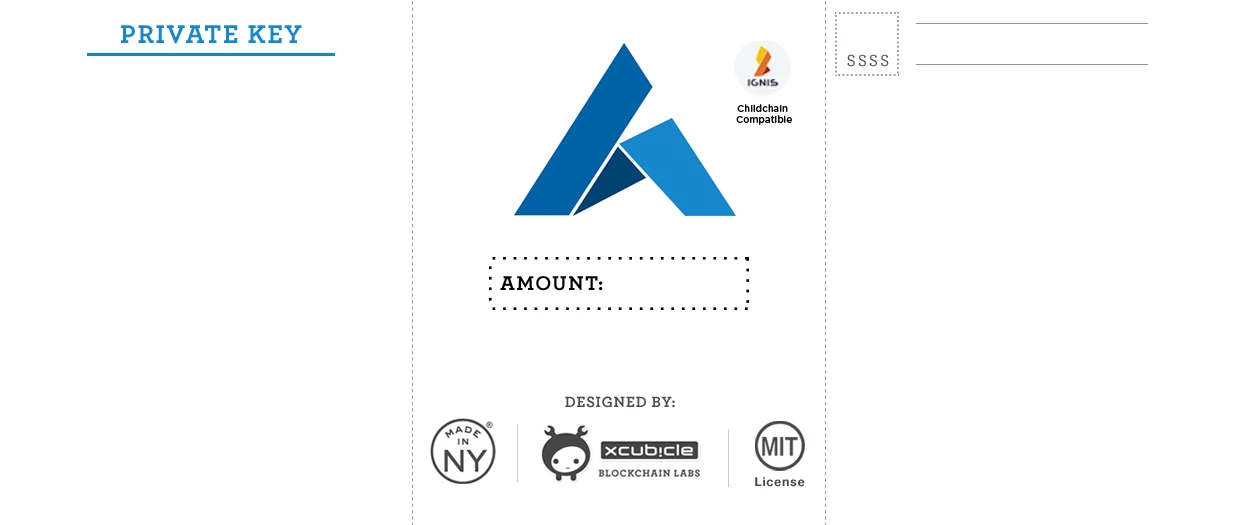
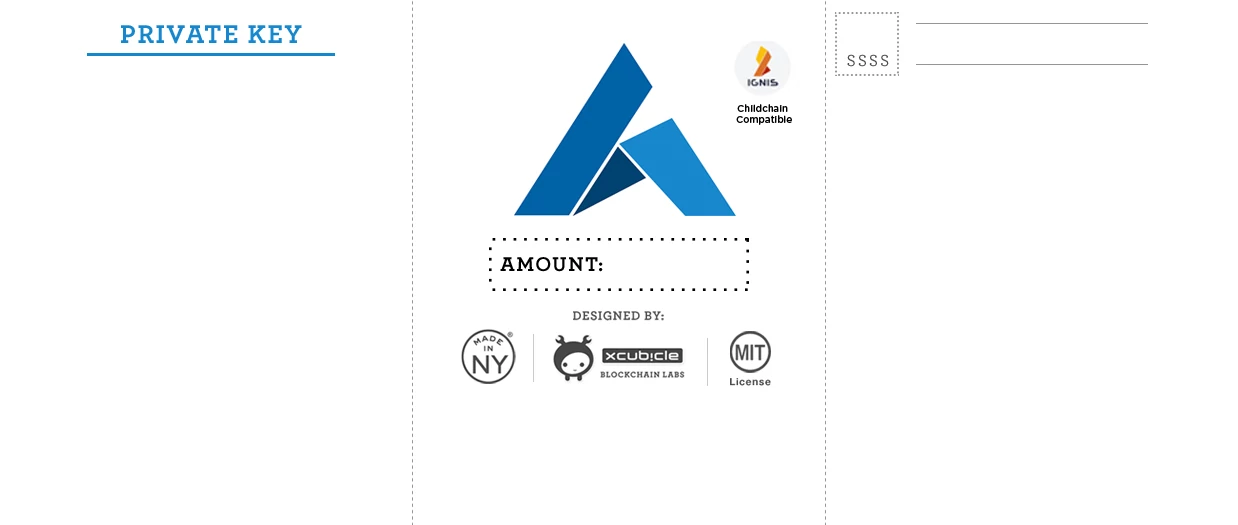
updated more images.

diff --git a/src/css/main.css b/src/css/main.css
@@ -127,22 +127,24 @@ body.tos-show {
 .identicon {
   position: absolute;
   height: 40px;
-  left: 110px;
-  top: 10px;
+  left: 665px;
+  top: 4px;
   background: #ffffff;
 }
 
 .qr-pub {
   position: absolute;
-  top: 70px;
-  left: 9px;
+  top: 44px;
+  left: 515px;
 }
+  .qr-pub img { width: 132px }
 
 .qr-pri {
-  position: absolute;
-  top: 130px;
-  right: 0;
+  position: absolute; 
+  right: 481px; 
+  top: 21px; 
 }
+  .qr-pri img { width: 195px; }
 
 .qr-image {
   display: inline-block;
@@ -155,29 +157,27 @@ body.tos-show {
 
 .qr-text {
   position: absolute;
-  width: 100%;
-  -webkit-transform: rotate(-90deg);
-  -ms-transform: rotate(-90deg);
-  transform: rotate(-90deg);
+  text-align: center;
+  word-break: break-word;
 }
 
 .pub-text {
-  top: -121px;
-  right: 140px;
-  font-size: 10px;
+  top: 195px;
+  right: 8px;
+  width: 218px;
 }
+  .pub-text:before { content: 'Public Address '; display: block; font-weight: bold }
 
-.pri-text { bottom: 100%; left: 375px; font-size: 10px; width: 274px; word-wrap: break-word; background: #fff; top: 132px; height: 17px; text-align: center; line-height: 8px; }
+.pri-text { left: 5px; font-size: 9px; width: 230px; top: 225px; text-align: center; }
+  .xmr.cloned .pri-text,
+  .nxt.cloned .pri-text { width: 463px; text-align: left }
 
 .date {
   position: absolute;
   width: 110px;
-  top: 125px;
-  right: 488px;
+  top: 21px;
+  right: 51px;
   font-size: 10px;
-  -webkit-transform: rotate(-90deg);
-  -ms-transform: rotate(-90deg);
-  transform: rotate(-90deg);
 }
 
 .logo-img {
@@ -189,50 +189,21 @@ body.tos-show {
     width: 300px;
 }
 
-/*Shorter than other addresses*/
-#nxtacct {
-  top: -60px;
-}
-
-/*Accountable for unreasonable long text*/
-#nxtpri {
-  word-wrap: break-word;
-  width: 37%;
-  left: 382px;
-  bottom: 160px;
-}
 
 
 /*XMR qr codes*/
-.xmr .qr-pub { top: 45px; left: 470px; }
-#xmrpub {
-  width: 113px;
-   word-wrap: break-word;
-   left: 583px;
-   top: 53px;
-   transform: rotate(0);
-   font-size: 10px;
-}
-.xmr .pri-text {word-wrap: break-word; display: block; width: 230px; left: 4px; top: 229px; background: #fff; font-size: 9px; line-height: 9px; text-align: center; z-index: 9; transform: rotate(0) }
-  .xmr.cloned .pri-text { width: 230px }
-  .xmr.cloned .pri-text:before { content: 'Shamir Secret-Share: '; }
-#xmrpri-view  {word-wrap: break-word; left: 478px; background: #fff; width: 128px; display: block; top: 197px; font-size: 11px; line-height: 9px; text-align: center; }
-
-.xmr .qr-pri { position: absolute; right: 481px; top: 23px; }
-  .xmr .qr-pri img { width: 195px; }
-
-#qr-xmrpri-view { position: absolute; right: 0; top: 149px; }
-  #qr-xmrpri-view img { width: 88px }
-
-.xmr .pri-text-view { transform: rotate(0) }
-
-.xmr .date { transform: rotate(0); top: 26px; right: 51px; }
-
-.xmr .identicon { left: 665px; top: 4px }
 .xmr .qr-pub { top: 45px; left: 470px }
   .xmr .qr-pub img { width: 99px }
+#xmrpub { font-size: 11px; width: 113px; left: 583px; top: 53px; }
+#xmrpri-view  { left: 478px; width: 128px; top: 197px; font-size: 11px; }
 
-.xmr .share-counter { top: 9px; left: 484px } 
+
+#qr-xmrpri-view { position: absolute; right: 0; top: 190px; }
+  #qr-xmrpri-view img { width: 88px }
+
+
+
+
 
 
 /* Cloned Wallet */
@@ -243,7 +214,7 @@ body.tos-show {
   .secret-config { display: inline-block; padding: 5px; }
     .split {border: none; padding: 5px 10px; outline: none; cursor: pointer; }
   
-.share-counter { position: absolute; top: 0; left: 5px; }
+.share-counter { position: absolute; top: 9px; left: 484px } 
 
 /* Animated stars background */
 .paper-wallet,
@@ -340,6 +311,7 @@ body.tos-show {
 
 @media print {
   #paperwallet-details,
+  .secret-share-btn,
   .result-btn,
   .upload,
   .bg-bubbles {

diff --git a/src/js/main.js b/src/js/main.js
@@ -44,6 +44,11 @@
             shareValue = _form.find('.shares').val() * 1,
             thresholdValue = _form.find('.threshold').val() * 1;
 
+      if(privateKey.length > 105) {
+      console.log(privateKey.length);
+        alert('Password is too long! Secret Sharing Not Compatible. Must be less than 50 characters.');
+        return;
+      }
       // Doesn't make sense to have threshold > shares
       if(thresholdValue > shareValue) return _this.after('<div id="threshold-error" style="color: red;">Threshold can\'t be bigger than shares.</div>');
 
@@ -157,7 +162,7 @@
 
           makeQRImage(`qr-xmrpub`, result.public);
           // makeQRImage(`qr-xmrpub-spend`, result.public_spend);
-          makeQRImage(`qr-xmrpri-spend`, result.private_spend, 209, 209);
+          makeQRImage(`qr-xmrpri-spend`, result.private_spend);
           // makeQRImage(`qr-xmrpub-view`, result.public_view);
           makeQRImage(`qr-xmrpri-view`, result.private_view);
           $('#result').toggle();
@@ -257,7 +262,7 @@
     return '';
   }
 
-  function makeQRImage(IDSelector, text, width = 111, height = 111) {
+  function makeQRImage(IDSelector, text, width = 209, height = 209) {
     new QRCode(IDSelector, {
       text: text,
       width: width,
